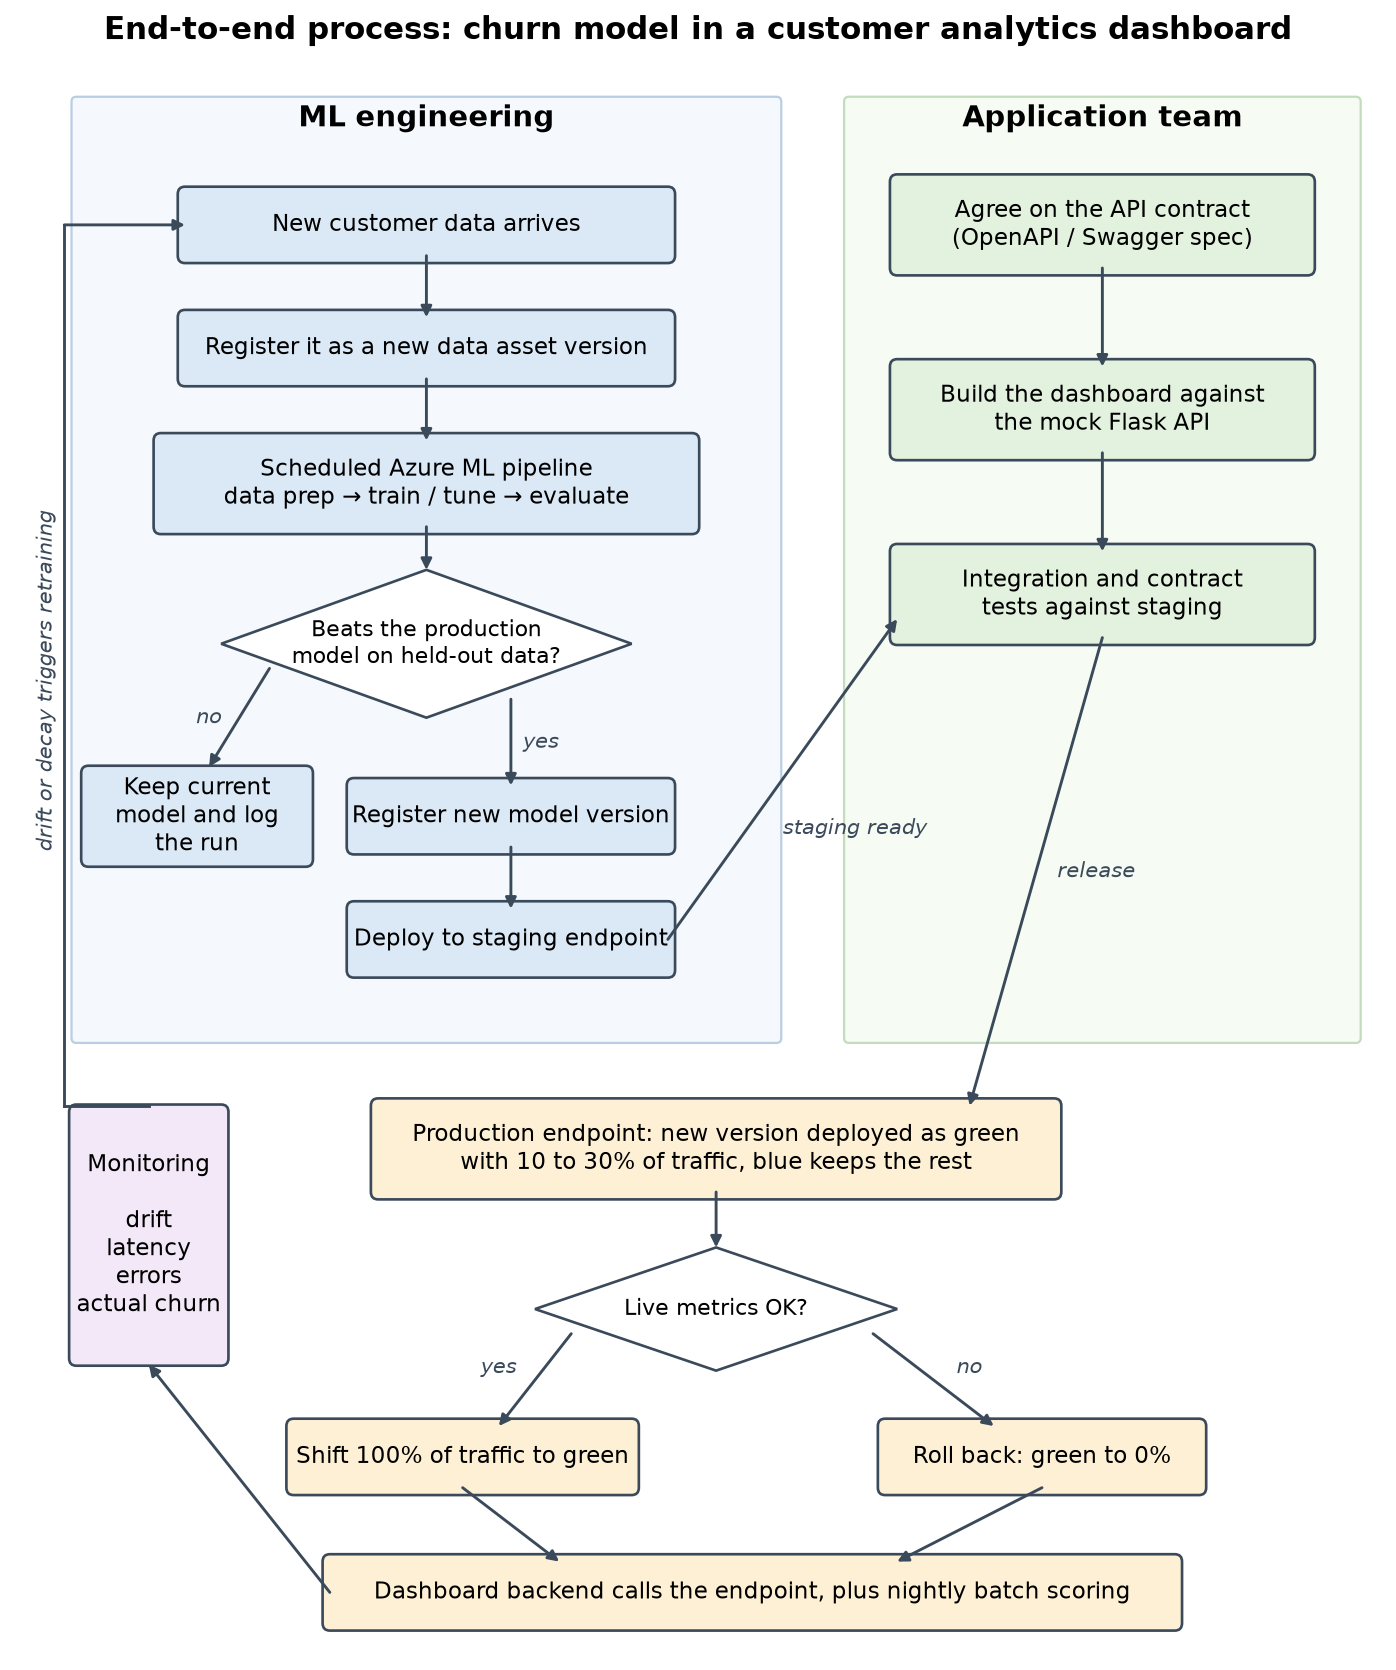
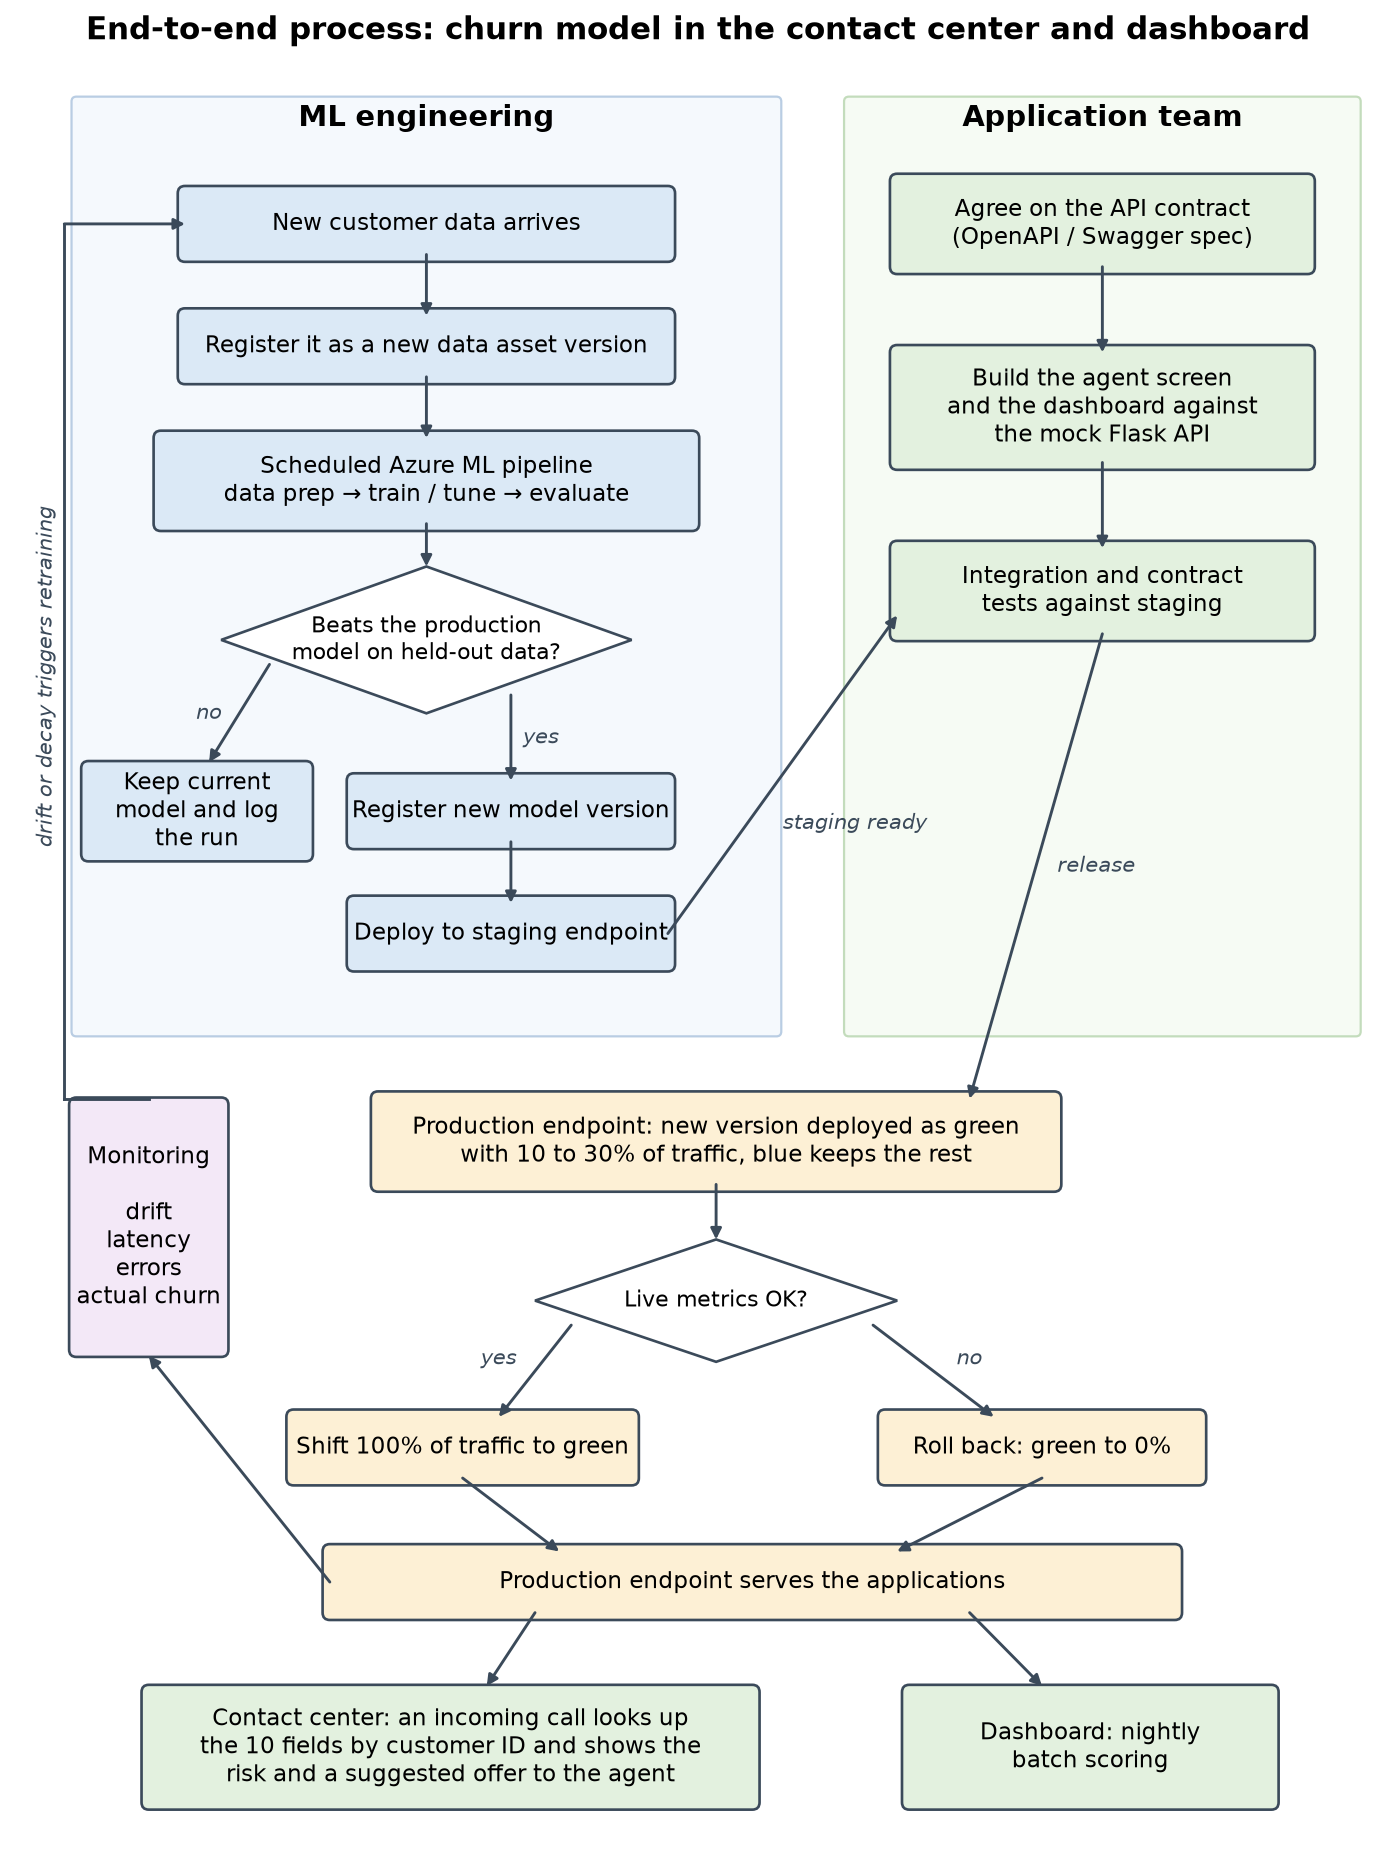
Flow diagram: show the contact center and dashboard as consumers of the endpoint

diff --git a/report/make_diagram.py b/report/make_diagram.py
@@ -18,9 +18,9 @@ PROD = "#fdf0d5"    # shared production steps
 DECISION = "#ffffff"
 EDGE = "#3b4a5a"
 
-fig, ax = plt.subplots(figsize=(11, 13))
+fig, ax = plt.subplots(figsize=(11, 14.5))
 ax.set_xlim(-3, 110)
-ax.set_ylim(0, 130)
+ax.set_ylim(-16, 130)
 ax.axis("off")
 
 
@@ -68,10 +68,10 @@ arrow(38, 65.5, 38, 60.5)
 
 # Application team lane
 box(87, 116, 34, 7, "Agree on the API contract\n(OpenAPI / Swagger spec)", APP)
-box(87, 101, 34, 7, "Build the dashboard against\nthe mock Flask API", APP)
+box(87, 101, 34, 9, "Build the agent screen\nand the dashboard against\nthe mock Flask API", APP)
 box(87, 86, 34, 7, "Integration and contract\ntests against staging", APP)
-arrow(87, 112.5, 87, 104.5)
-arrow(87, 97.5, 87, 89.5)
+arrow(87, 112.5, 87, 105.5)
+arrow(87, 96.5, 87, 89.5)
 arrow(51, 58, 70, 84, "staging ready", (6, -4))
 
 # Shared production flow
@@ -80,7 +80,11 @@ arrow(87, 82.5, 76, 44.5, "release", (5, 0))
 diamond(55, 28, 30, 10, "Live metrics OK?")
 box(34, 16, 28, 5, "Shift 100% of traffic to green", PROD)
 box(82, 16, 26, 5, "Roll back: green to 0%", PROD)
-box(58, 5, 70, 5, "Dashboard backend calls the endpoint, plus nightly batch scoring", PROD)
+box(58, 5, 70, 5, "Production endpoint serves the applications", PROD)
+box(33, -8.5, 50, 9, "Contact center: an incoming call looks up\nthe 10 fields by customer ID and shows the\nrisk and a suggested offer to the agent", APP)
+box(86, -8.5, 30, 9, "Dashboard: nightly\nbatch scoring", APP)
+arrow(40, 2.5, 36, -3.5)
+arrow(76, 2.5, 82, -3.5)
 arrow(55, 37.5, 55, 33)
 arrow(43, 26, 37, 18.5, "yes", (-3, 1))
 arrow(68, 26, 78, 18.5, "no", (3, 1))
@@ -96,7 +100,7 @@ arrow(1, 116, 11, 116)
 ax.text(-0.5, 79, "drift or decay triggers retraining", rotation=90, fontsize=9.5,
         color=EDGE, ha="center", va="center", style="italic")
 
-ax.set_title("End-to-end process: churn model in a customer analytics dashboard",
+ax.set_title("End-to-end process: churn model in the contact center and dashboard",
              fontsize=14, weight="bold", pad=6)
 OUT.parent.mkdir(exist_ok=True)
 fig.savefig(OUT, dpi=160, bbox_inches="tight", facecolor="white")
